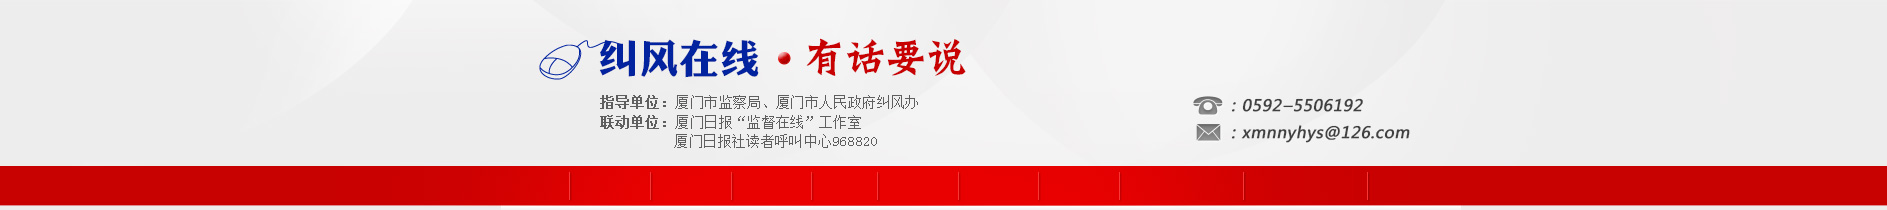
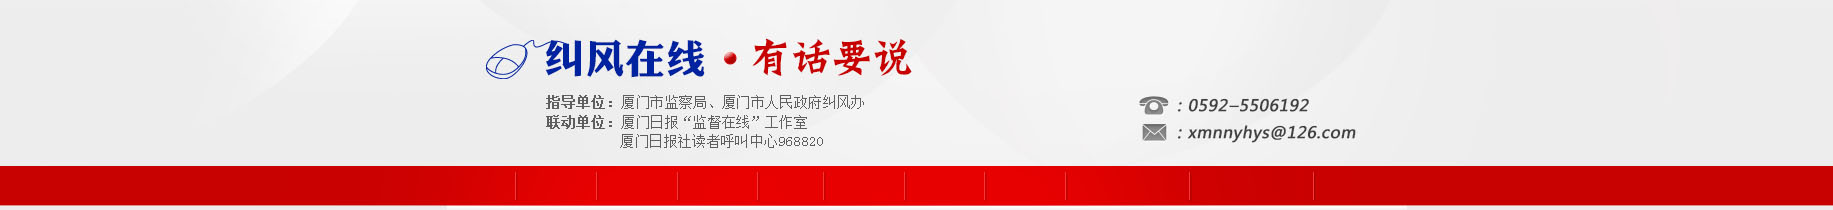
ie6样式调整，栏头居中

diff --git a/css/yhys.style.css b/css/yhys.style.css
@@ -98,7 +98,7 @@ strong,h1,h2,h3,h4,dt,h1 a,h2 a,h3 a,h4 a{font-weight:bold;}
 #b .r3 .c1{background:url(../img/r3-c1.png) no-repeat right center;}
 #b .r4{border:1px solid #D3D3D3; border-bottom:none; }
 #b .r4 .c1{border-right:1px solid #D3D3D3;}
-#b .r5{border:1px solid #D3D3D3;}
+#b .r5{border:1px solid #D3D3D3;font-size:12px;}
 #b .br{margin-left:-1px;}
 .zy .bw2{height:1413px;}
 #b .bw2{border:1px solid #D3D3D3; margin-top:4px;}
@@ -138,7 +138,8 @@ strong,h1,h2,h3,h4,dt,h1 a,h2 a,h3 a,h4 a{font-weight:bold;}
 .slider .f .activeSlide{background:url(../img/m1-f-hover.png) no-repeat center center;}
 /*-------------------布局--------------------------*/
 .w{width:960px; margin:0 auto;}
-#h .r3 .c2{width: 600px;}
+#h .r3 .c1{_width: 280px;}
+#h .r3 .c2{_width: 600px;}
 #b .c1{width:289px;}
 #b .c2{width:378px;}
 #b .bl{width:686px;}
@@ -156,6 +157,8 @@ strong,h1,h2,h3,h4,dt,h1 a,h2 a,h3 a,h4 a{font-weight:bold;}
 #h .r3 label{line-height:30px;}
 #h .r3 span{font-weight:bold; margin-right:4px;}
 #h .r3 input{height:22px; vertical-align:middle; line-height:22px;}
+#h .r3 .text{width:100px;}
+#h .r3 img{vertical-align:middle;}
 #keyword{width:100px;}
 #num,
 #username{width:80px;}
@@ -423,3 +426,10 @@ filter: progid:DXImageTransform.Microsoft.gradient(GradientType=0, startColorstr
 .m29 .l11{display:inline-block; font-size:12px; color:#737373;}
 .m29 .l10 span{font-weight:bold;}
 .m29 .wb{margin-left:338px;}
+/*-------------------评论--------------------------*/
+.content {
+border: 1px solid #ccc;
+margin: 5px;
+padding: 5px;
+}
+.content span{display:block;}
